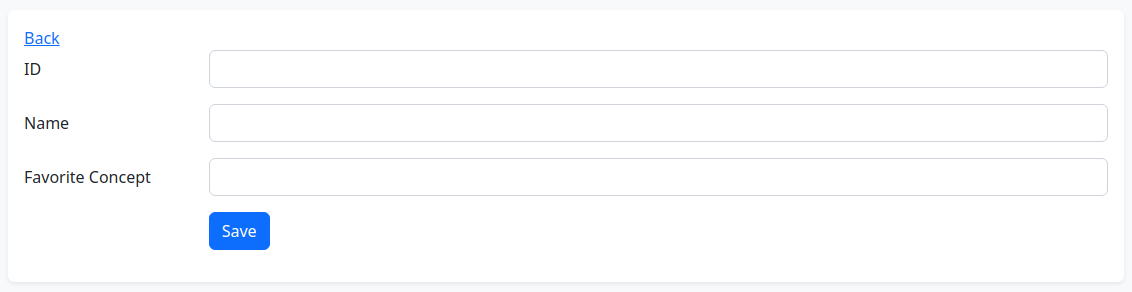
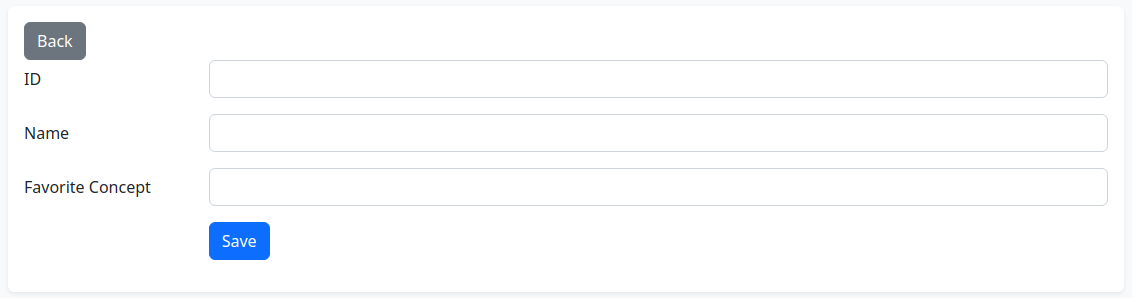
Fix Bootstrap 'btn' class typo

diff --git a/resources/views/students/create.blade.php b/resources/views/students/create.blade.php
@@ -6,7 +6,7 @@
 <form action="{{ url('students') }}" method="post">
     @csrf
     <div class="my-3 p-3 bg-body rounded shadow-sm">
-        <a href="{{ url('students') }}" class="btn-btn-secondary">Back</a>
+        <a href="{{ url('students') }}" class="btn btn-secondary">Back</a>
         <div class="mb-3 row">
             <label for="digits" class="col-sm-2 col-form-label">ID</label>
             <div class="col-sm-10">

diff --git a/resources/views/students/edit.blade.php b/resources/views/students/edit.blade.php
@@ -7,7 +7,7 @@
     @csrf
     @method('PUT')
     <div class="my-3 p-3 bg-body rounded shadow-sm">
-        <a href="{{ url('students') }}" class="btn-btn-secondary">Back</a>
+        <a href="{{ url('students') }}" class="btn btn-secondary">Back</a>
         <div class="mb-3 row">
             <label for="digits" class="col-sm-2 col-form-label">ID</label>
             <div class="col-sm-10">
